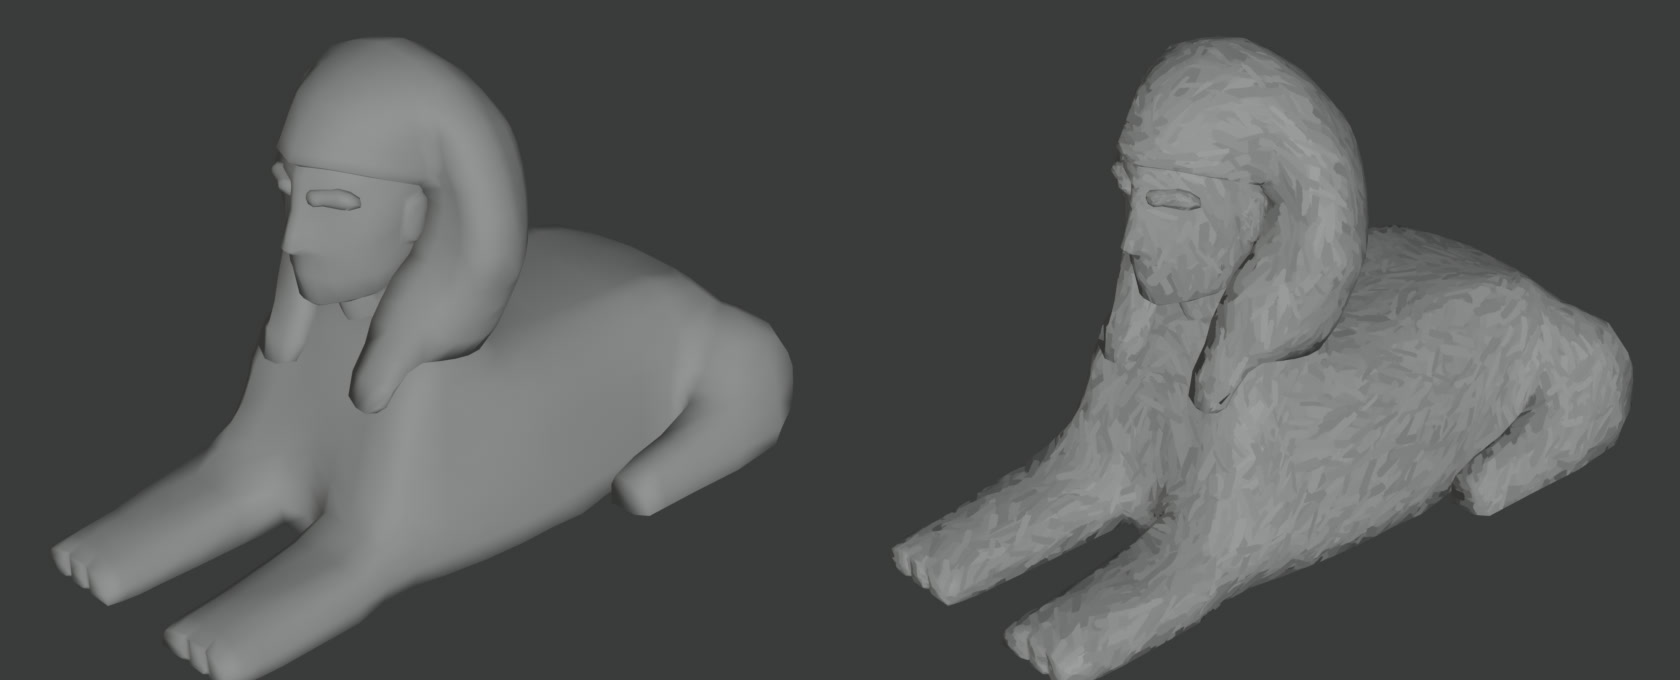
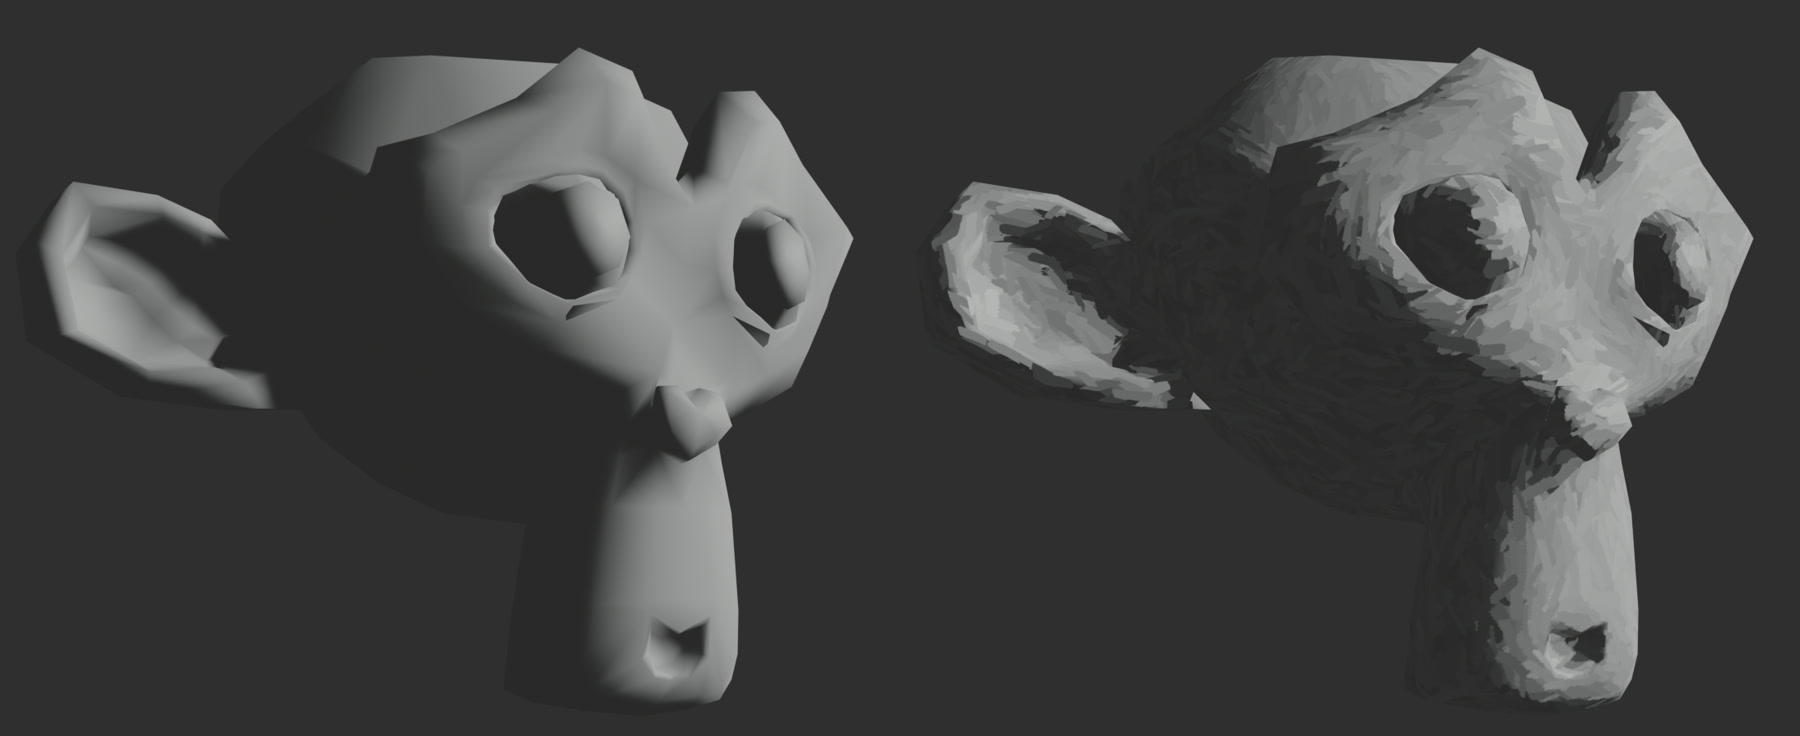
Use Suzanne, in strong light, for the before/after images
The hero pair is now Suzanne from the front, slightly left and below,
with the sun doubled and the world light dimmed. That gives a strong
light-to-shadow range where the strokes read clearly, matching how the
tool looks in the viewport. Fresh 0.12.1 GPU bake with the scene's
saved settings.

render_showcase.py:
- `object@dx,dy,dz[,roll]` places the camera in that direction.
- Framing fits the object's projected vertices, not its bounding
  sphere, so it fills the frame.
- `sun=K` / `world=K` scale the lighting, in memory only.

encode_media.sh takes HERO (default suzanne). Crops no longer depend
on one object's position; the social preview is padded with the
background grey instead of cropped.

diff --git a/tools/render_showcase.py b/tools/render_showcase.py
@@ -6,15 +6,23 @@ never saves the .blend: every change (visibility, modifiers, materials, cameras)
 memory only, and the bake writes its maps into a temporary folder, not Output/.
 
     Blender --factory-startup PainterlyTexture.blend --python tools/render_showcase.py \
-            -- <out_dir> [object ...]
+            -- <out_dir> [object[@dx,dy,dz[,roll]] ...] [sun=K] [world=K]
 
 For each object (default: Body) it writes, with the scene's lights:
   <name>_before.png  the mesh with a neutral grey material (what you start from)
   <name>_after.png   the same mesh with the <name>_AutoStroke material from that bake
 
-Every object is shot with a temporary camera looking the SAME way as the scene camera,
-pulled back to fit the object's bounding sphere, so shots are framed alike. Geometry-nodes
-modifiers are turned off for the render, as the bake itself does.
+Every object is shot with a temporary camera, framed tightly on the object's projected
+vertices. By default it looks the same way as the scene camera. `@dx,dy,dz` instead places the camera
+in that world-space direction from the object's centre, looking back at it (e.g.
+`Suzanne@-0.4,-1,-0.7` is front, a little left and below). An optional 4th value rolls the
+camera, in degrees. Geometry-nodes modifiers are turned off for the render, as the bake
+itself does. `sun=K` and `world=K` scale the sun's energy and the world background's
+strength (in memory), for more light/shadow contrast than the scene's defaults.
+
+The README's images come from:
+
+    ... -- docs/media "Suzanne@-0.7,-1,-0.2" sun=2 world=0.7
 
 --factory-startup keeps any INSTALLED copy of the add-on from loading, so the repo copy can
 register without its classes colliding with the installed ones.
@@ -28,12 +36,16 @@ import time
 import traceback
 
 import bpy
-from mathutils import Vector
+from mathutils import Quaternion, Vector
 
 ARGV = sys.argv[sys.argv.index("--") + 1:] if "--" in sys.argv else []
 REPO = os.path.dirname(os.path.dirname(os.path.abspath(__file__)))
 OUT = os.path.abspath(ARGV[0]) if ARGV else os.path.join(REPO, "docs", "media")
-NAMES = ARGV[1:] or ["Body"]
+OPTS = dict(a.split("=", 1) for a in ARGV[1:] if "=" in a)
+SPECS = [a for a in ARGV[1:] if "=" not in a] or ["Body"]
+NAMES = [a.split("@")[0] for a in SPECS]
+VIEWS = {a.split("@")[0]: [float(v) for v in a.split("@")[1].split(",")]
+         for a in SPECS if "@" in a}
 RES = (1600, 900)
 WORK = tempfile.mkdtemp(prefix="autostroke_showcase_")
 lines = []
@@ -84,17 +96,32 @@ def grey_material():
     return mat
 
 
-def camera_for(obj, base):
-    """A copy of the scene camera, same view direction, pulled back to fit obj."""
+def camera_for(obj, base, view=None):
+    """A copy of the scene camera looking along the scene camera's direction, or from
+    `view` = (dx, dy, dz[, roll_deg]) towards the object, framed tightly on the object's
+    vertices as projected onto the image plane (5% margin)."""
     cam = base.copy()
     cam.data = base.data.copy()
     bpy.context.scene.collection.objects.link(cam)
-    corners = [obj.matrix_world @ Vector(c) for c in obj.bound_box]
-    centre = sum(corners, Vector()) / 8.0
-    radius = max((c - centre).length for c in corners)
-    fwd = (base.matrix_world.to_quaternion() @ Vector((0.0, 0.0, -1.0))).normalized()
-    fov = min(cam.data.angle_x, cam.data.angle_y)
-    cam.location = centre - fwd * (radius / math.sin(fov / 2.0) * 1.02)
+    if view:
+        rot = (-Vector(view[:3])).normalized().to_track_quat('-Z', 'Y')
+        if len(view) > 3:
+            rot = rot @ Quaternion((0.0, 0.0, 1.0), math.radians(view[3]))
+    else:
+        rot = base.matrix_world.to_quaternion()
+    cam.rotation_mode = 'QUATERNION'
+    cam.rotation_quaternion = rot
+    sc = bpy.context.scene
+    cam.data.sensor_fit = 'HORIZONTAL'
+    tx = math.tan(cam.data.angle_x / 2.0)
+    ty = tx * sc.render.resolution_y / sc.render.resolution_x
+    # vertices in the camera's frame (camera looks down -Z); the camera sits at (cx, cy, d)
+    inv, mw = rot.inverted(), obj.matrix_world
+    pts = [inv @ (mw @ v.co) for v in obj.data.vertices]
+    cx = (max(p.x for p in pts) + min(p.x for p in pts)) / 2.0
+    cy = (max(p.y for p in pts) + min(p.y for p in pts)) / 2.0
+    d = max(max(abs(p.x - cx) / tx, abs(p.y - cy) / ty) + p.z for p in pts) * 1.05
+    cam.location = rot @ Vector((cx, cy, d))
     return cam
 
 
@@ -112,7 +139,14 @@ def render_all():
     sc.render.resolution_percentage = 100
     sc.render.image_settings.file_format = 'PNG'
     base, grey = sc.camera, grey_material()
-    log("render: %s, %dx%d" % (sc.render.engine, *RES))
+    k_sun, k_world = float(OPTS.get("sun", 1)), float(OPTS.get("world", 1))
+    for o in bpy.data.objects:
+        if o.type == 'LIGHT':
+            o.data.energy *= k_sun
+    bg = sc.world.node_tree.nodes.get("Background") if sc.world and sc.world.use_nodes else None
+    if bg is not None:
+        bg.inputs["Strength"].default_value *= k_world
+    log("render: %s, %dx%d, sun x%g, world x%g" % (sc.render.engine, *RES, k_sun, k_world))
     for name in NAMES:
         obj = bpy.data.objects[name]
         mat = bpy.data.materials.get(name + "_AutoStroke")
@@ -126,7 +160,7 @@ def render_all():
             if m.type == 'NODES':
                 m.show_render = False
         log("%s:" % name)
-        cam = camera_for(obj, base)
+        cam = camera_for(obj, base, VIEWS.get(name))
         for s in obj.material_slots:
             s.material = grey
         shoot(cam, os.path.join(OUT, "%s_before.png" % name.lower()))

diff --git a/docs/media/README.md b/docs/media/README.md
@@ -6,7 +6,7 @@ page (`JSS6088.github.io/projects/autostroke/`). Record or render each asset onc
 
 | File | Made by |
 |---|---|
-| `body_before.png`, `body_after.png` | `tools/render_showcase.py`: a fresh bake of Body, then EEVEE renders |
+| `suzanne_before.png`, `suzanne_after.png` | `tools/render_showcase.py`: a fresh bake of Suzanne, then EEVEE renders |
 | `hero.jpg`, `social_preview.jpg` | `tools/encode_media.sh`, cropped from the renders |
 | `live_preview.gif` | `tools/encode_media.sh <recording>`, from your screen recording |
 | `panel.png` | `tools/encode_media.sh <recording> <screenshot>`, from your screenshot |
@@ -18,17 +18,21 @@ and the `card:` line in `_data/projects.yml`.
 ## Re-rendering the stills
 
 ```bash
-"$BLENDER" --factory-startup PainterlyTexture.blend --python tools/render_showcase.py -- docs/media Body
+"$BLENDER" --factory-startup PainterlyTexture.blend --python tools/render_showcase.py \
+    -- docs/media "Suzanne@-0.7,-1,-0.2" sun=2 world=0.7
 tools/encode_media.sh
 ```
 
-The script bakes into a temporary folder and never saves the `.blend`. If you change the
-camera, re-tune the crop offsets at the top of `encode_media.sh`.
+The script bakes into a temporary folder and never saves the `.blend`.
+- The view is front, slightly left and below.
+- The sun is doubled and the world light dimmed, so the render has a strong light-to-shadow
+  range where the strokes read clearly.
+- `HERO=<name> tools/encode_media.sh` encodes a different object's renders.
 
 ## Recording checklist
 
 **Showcase clip.** One recording becomes both the README GIF and the portfolio's mp4:
-- 3D viewport around 1600×900, sidebar open on the AutoStroke tab, Body selected.
+- 3D viewport around 1600×900, sidebar open on the AutoStroke tab, Suzanne selected.
 - 8–12 seconds:
   1. Live Preview ON.
   2. Drag **Stroke Count**.
